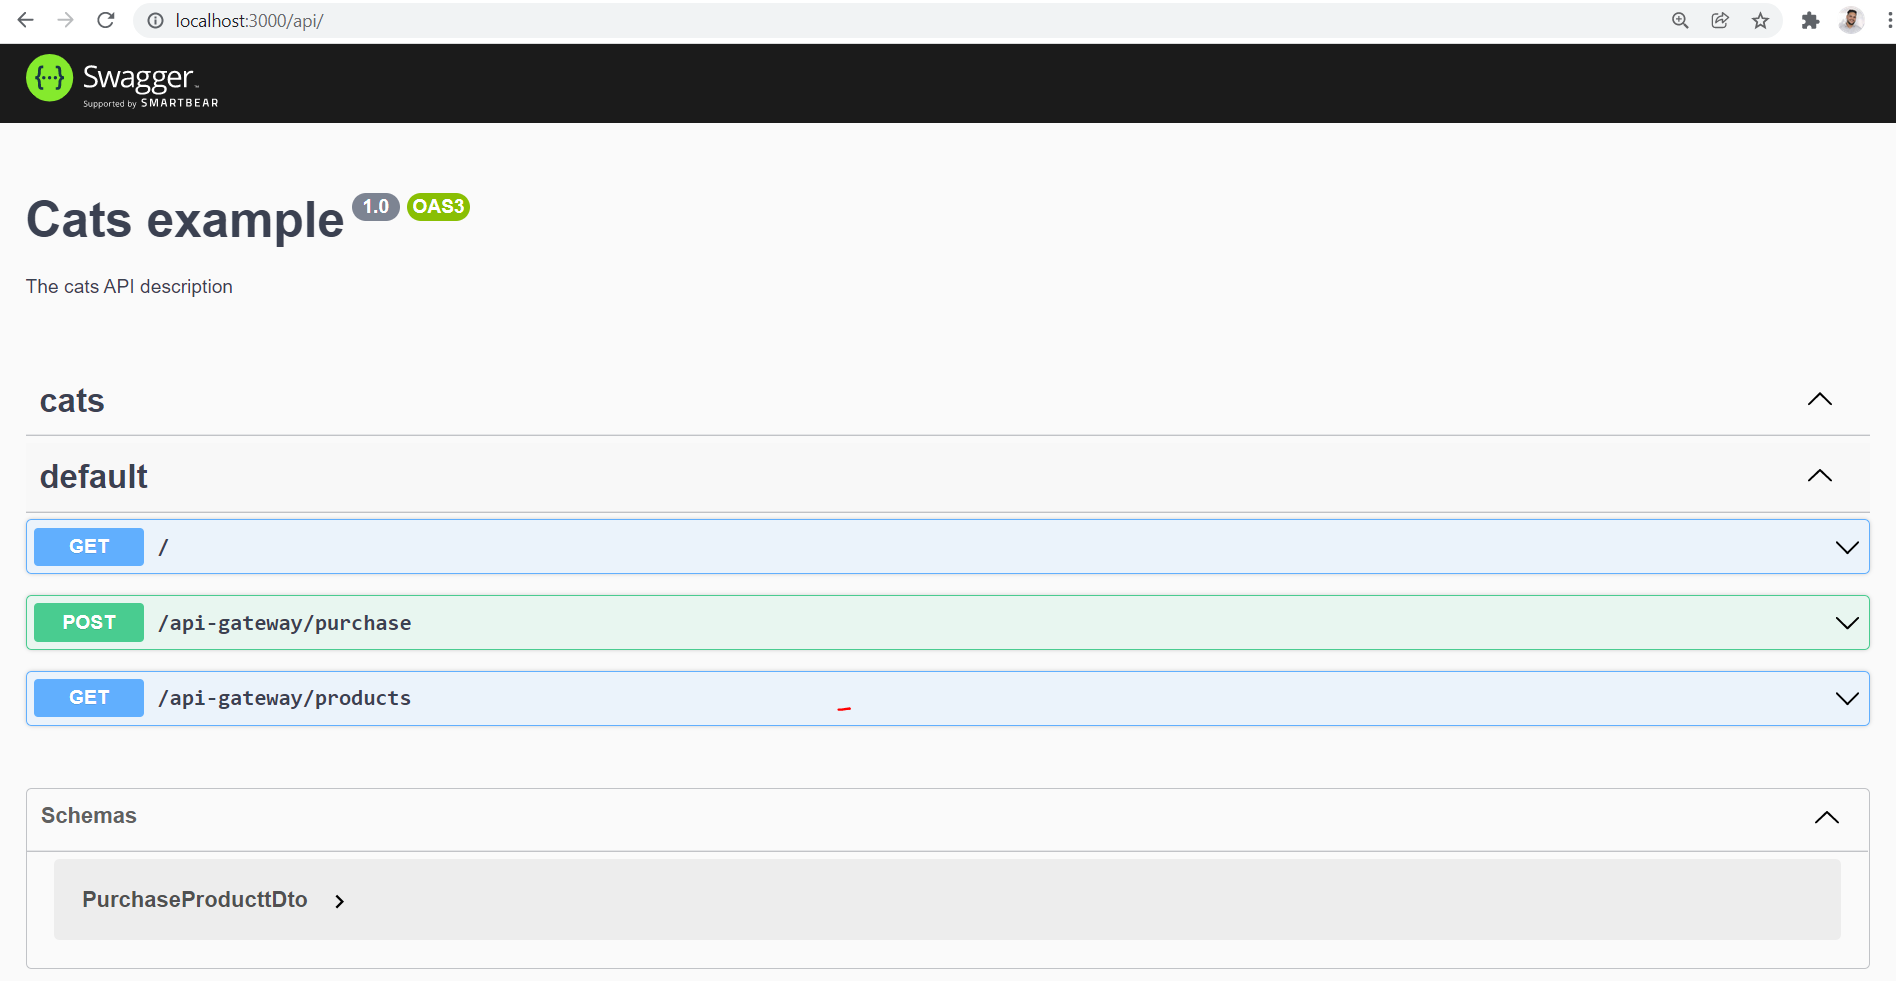
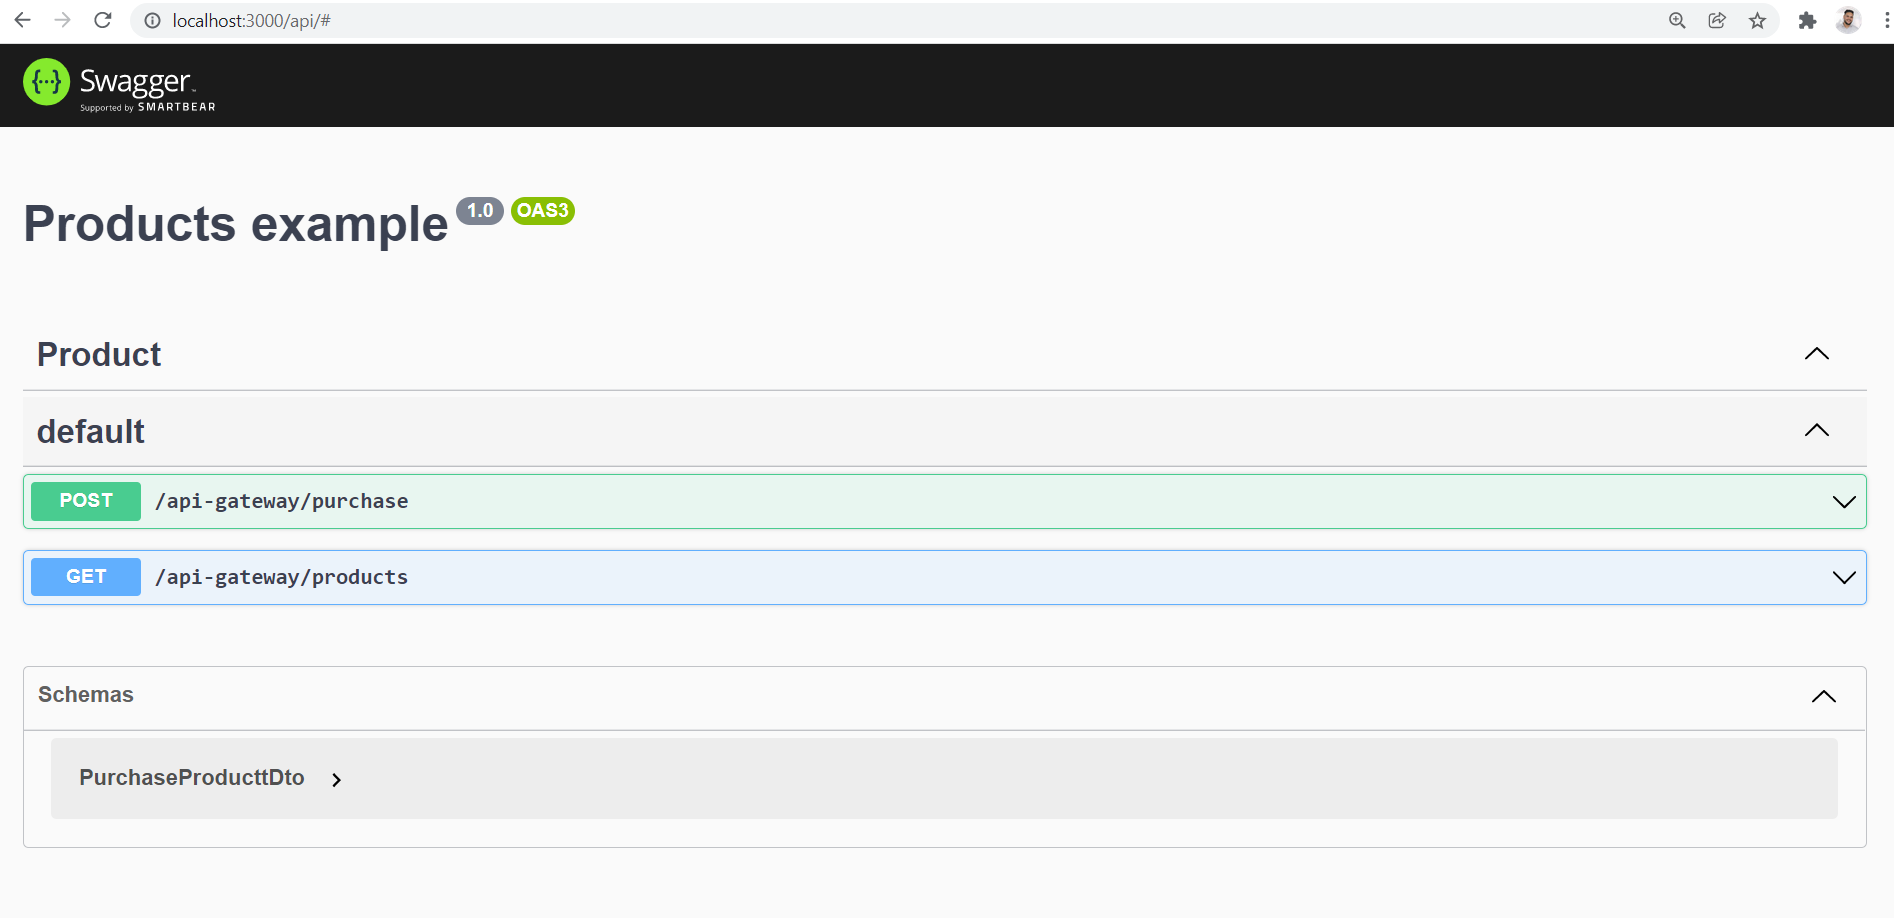
update swagger Document builder description

diff --git a/gateway/src/main.ts b/gateway/src/main.ts
@@ -1,15 +1,10 @@
 import { NestFactory } from '@nestjs/core';
-import { SwaggerModule, DocumentBuilder } from '@nestjs/swagger';
+import { SwaggerModule } from '@nestjs/swagger';
 import { AppModule } from './app.module';
+import { config } from './swagger-ui/swagger-config';
 
 async function bootstrap() {
   const app = await NestFactory.create(AppModule);
-  const config = new DocumentBuilder()
-    .setTitle('Cats example')
-    .setDescription('The cats API description')
-    .setVersion('1.0')
-    .addTag('cats')
-    .build();
   const document = SwaggerModule.createDocument(app, config);
   SwaggerModule.setup('api', app, document);
   await app.listen(3000);

diff --git a/gateway/src/app.controller.ts b/gateway/src/app.controller.ts
@@ -1,11 +1,10 @@
-import { Controller, Get } from '@nestjs/common';
+import { Controller } from '@nestjs/common';
 import { AppService } from './app.service';
 
 @Controller()
 export class AppController {
   constructor(private readonly appService: AppService) {}
 
-  @Get()
   getHello(): string {
     return this.appService.getHello();
   }

diff --git a/gateway/src/swagger-ui/swagger-config.ts b/gateway/src/swagger-ui/swagger-config.ts
@@ -1,8 +1,8 @@
 import { DocumentBuilder } from '@nestjs/swagger';
 
 export const config = new DocumentBuilder()
-  .setTitle('Cats example')
-  .setDescription('The cats API description')
+  .setTitle('Products example')
+  .setDescription('')
   .setVersion('1.0')
-  .addTag('cats')
+  .addTag('Product')
   .build();
